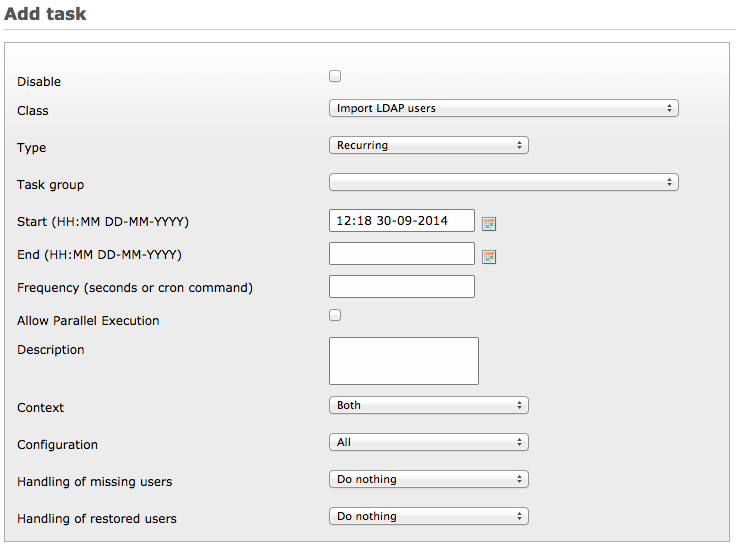
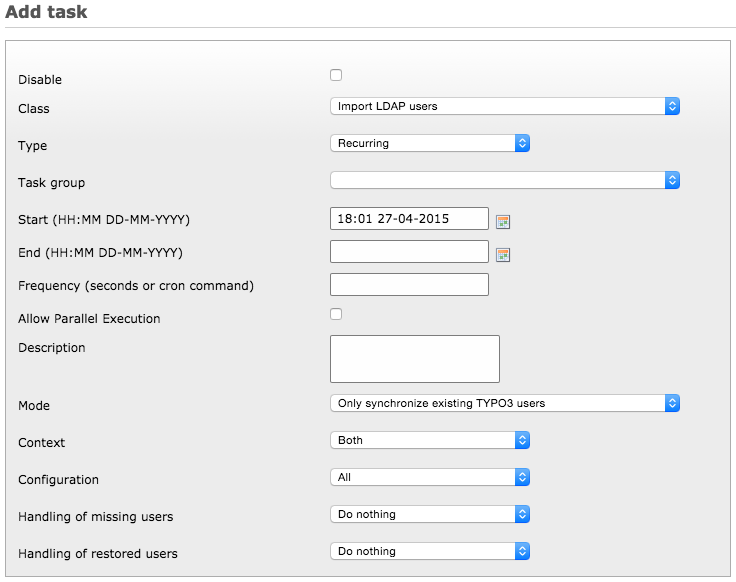
[FEATURE] Either import & synchronize or only synchronize LDAP users
A new option for the scheduler task lets you configure whether new
LDAP users should be imported into TYPO3 or if you only want to
synchronize existing TYPO3 users with changes from LDAP.

Resolves: #66610

diff --git a/Classes/Task/ImportUsers.php b/Classes/Task/ImportUsers.php
@@ -62,6 +62,14 @@ class ImportUsers extends \TYPO3\CMS\Scheduler\Task\AbstractTask {
 	protected $restoredUsersHandling = 'nothing';
 
 	/**
+	 * Defines whether missing users in TYPO3 should be imported ("imported") or if only already existing
+	 * users in TYPO3 should be synchronized ("sync") with LDAP.
+	 *
+	 * @var string
+	 */
+	protected $mode = 'import';
+
+	/**
 	 * Performs the synchronization of LDAP users according to selected parameters.
 	 *
 	 * @return boolean Returns TRUE on successful execution, FALSE on error
@@ -81,11 +89,13 @@ class ImportUsers extends \TYPO3\CMS\Scheduler\Task\AbstractTask {
 				$ldapConfigurations[] = $configuration;
 			}
 		}
-		if ($this->context == 'both') {
+		if ($this->context === 'both') {
 			$executionContexts = array('fe', 'be');
 		} else {
 			$executionContexts = array($this->context);
 		}
+
+		$mode = $this->getMode();
 
 		// Start a database transaction with all our changes
 		// Syntax is compatible with MySQL, Oracle, MSSQL and PostgreSQL
@@ -147,6 +157,11 @@ class ImportUsers extends \TYPO3\CMS\Scheduler\Task\AbstractTask {
 
 						// Loop on all users and import them
 						foreach ($ldapUsers as $index => $aUser) {
+							if ($mode === 'sync' && empty($typo3Users[$index]['uid'])) {
+								// New LDAP user => skip it since only existing TYPO3 users should get synchronized
+								continue;
+							}
+
 							// Merge LDAP and TYPO3 information
 							$user = Authentication::merge($aUser, $typo3Users[$index], $config['users']['mapping']);
 
@@ -193,23 +208,44 @@ class ImportUsers extends \TYPO3\CMS\Scheduler\Task\AbstractTask {
 	 * @return	string	Information to display
 	 */
 	public function getAdditionalInformation() {
+		$languageService = $this->getLanguageService();
+
 		if (empty($this->configuration)) {
-			$configurationName = $this->getLanguageService()->sL('LLL:EXT:ig_ldap_sso_auth/Resources/Private/Language/locallang.xlf:task.import_users.field.configuration.all');
+			$configurationName = $languageService->sL('LLL:EXT:ig_ldap_sso_auth/Resources/Private/Language/locallang.xlf:task.import_users.field.configuration.all');
 		} else {
 			$configurationName = $this->getConfigurationName();
 		}
 		$info = sprintf(
-			$this->getLanguageService()->sL('LLL:EXT:ig_ldap_sso_auth/Resources/Private/Language/locallang.xlf:task.import_users.additional_information'),
-			$this->getContext(),
+			$languageService->sL('LLL:EXT:ig_ldap_sso_auth/Resources/Private/Language/locallang.xlf:task.import_users.additionalinformation'),
+			$languageService->sL('LLL:EXT:ig_ldap_sso_auth/Resources/Private/Language/locallang.xlf:task.import_users.field.mode.' . $this->getMode() . '.short'),
+			$languageService->sL('LLL:EXT:ig_ldap_sso_auth/Resources/Private/Language/locallang.xlf:task.import_users.field.context.' . strtolower($this->getContext())),
 			$configurationName
 		);
 		return $info;
 	}
 
 	/**
+	 * Sets the mode.
+	 *
+	 * @param string $mode
+	 */
+	public function setMode($mode) {
+		$this->mode = $mode;
+	}
+
+	/**
+	 * Returns the mode.
+	 *
+	 * @return string
+	 */
+	public function getMode() {
+		return $this->mode;
+	}
+
+	/**
 	 * Sets the context parameter.
 	 *
-	 * @param $context
+	 * @param string $context
 	 */
 	public function setContext($context) {
 		$this->context = $context;
@@ -218,7 +254,7 @@ class ImportUsers extends \TYPO3\CMS\Scheduler\Task\AbstractTask {
 	/**
 	 * Returns the context parameter.
 	 *
-	 * @return mixed
+	 * @return string
 	 */
 	public function getContext() {
 		return $this->context;
@@ -227,7 +263,7 @@ class ImportUsers extends \TYPO3\CMS\Scheduler\Task\AbstractTask {
 	/**
 	 * Sets the configuration.
 	 *
-	 * @param $configuration
+	 * @param int $configuration
 	 */
 	public function setConfiguration($configuration) {
 		$this->configuration = (int)$configuration;

diff --git a/Classes/Task/ImportUsersAdditionalFields.php b/Classes/Task/ImportUsersAdditionalFields.php
@@ -40,6 +40,19 @@ class ImportUsersAdditionalFields implements \TYPO3\CMS\Scheduler\AdditionalFiel
 		/** @var \Causal\IgLdapSsoAuth\Task\ImportUsers $task */
 		$additionalFields = array();
 
+		// Process the mode field
+		$parameters = array(
+			'field' => 'mode',
+			'label' => 'task.import_users.field.mode',
+			'options' => array(
+				'import' => 'LLL:task.import_users.field.mode.import',
+				'sync' => 'LLL:task.import_users.field.mode.sync',
+			),
+			'value' => $task ? $task->getMode() : NULL,
+			'css' => 'wide',
+		);
+		$this->registerSelect($taskInfo, $schedulerModule->CMD, $parameters, $additionalFields);
+
 		// Process the context field
 		$parameters = array(
 			'field' => 'context',
@@ -131,7 +144,11 @@ class ImportUsersAdditionalFields implements \TYPO3\CMS\Scheduler\AdditionalFiel
 
 		// Write the code for the field
 		$fieldID = 'task_' . $fieldName;
-		$fieldCode = '<select name="tx_scheduler[' . $fieldName . ']" id="' . $fieldID . '" class="form-control">';
+		$cssClass = 'form-control';
+		if (isset($parameters['css'])) {
+			$cssClass .= ' ' . $parameters['css'];
+		}
+		$fieldCode = '<select name="tx_scheduler[' . htmlspecialchars($fieldName) . ']" id="' . htmlspecialchars($fieldID) . '" class="' . htmlspecialchars($cssClass) . '">';
 
 		// Assemble selector options
 		foreach ($parameters['options'] as $optionKey => $label) {
@@ -178,6 +195,7 @@ class ImportUsersAdditionalFields implements \TYPO3\CMS\Scheduler\AdditionalFiel
 	 */
 	public function saveAdditionalFields(array $submittedData, \TYPO3\CMS\Scheduler\Task\AbstractTask $task) {
 		/** @var \Causal\IgLdapSsoAuth\Task\ImportUsers $task */
+		$task->setMode($submittedData['tx_igldapssoauth_mode']);
 		$task->setContext($submittedData['tx_igldapssoauth_context']);
 		$task->setConfiguration($submittedData['tx_igldapssoauth_configuration']);
 		$task->setMissingUsersHandling($submittedData['tx_igldapssoauth_missinguserhandling']);

diff --git a/Documentation/AdministratorManual/Scheduler.rst b/Documentation/AdministratorManual/Scheduler.rst
@@ -23,20 +23,20 @@ The task comes with several options, as can be seen in the Scheduler module:
 
 The options are the following:
 
-- **Context:** Choose to import only FE users, BE users or both.
+- **Mode:** Choose to import LDAP users who are not yet available in TYPO3 or only synchronize existing TYPO3 users with
+  changes from LDAP.
 
-- **Configuration:** Choose which configuration to use, or choose "All"
-  to automate import of users from all available configurations.
+- **Context:** Choose to import only frontend users, backend users or both.
+
+- **Configuration:** Choose which configuration to use, or choose "All" to automate import of users from all available
+  configurations.
 
   .. tip::
 
      Disabled configurations are not considered during automation.
 
-- **Handling of missing users:** What to do with users which are not
-  found on the LDAP server anymore. They can be deleted, disabled or
-  left as is.
+- **Handling of missing users:** What to do with users which are not found on the LDAP server anymore. They can be
+  deleted, disabled or left as is.
 
-- **Handling of restored users:** If user has been deleted or disabled
-  locally, it may be automatically restored upon import. Each user may
-  be either un-deleted, re-enabled or both. It can be also left as is by
-  choosing to do nothing.
+- **Handling of restored users:** If user has been deleted or disabled locally, it may be automatically restored upon
+  import. Each user may be either un-deleted, re-enabled or both. It can be also left as is by choosing to do nothing.
